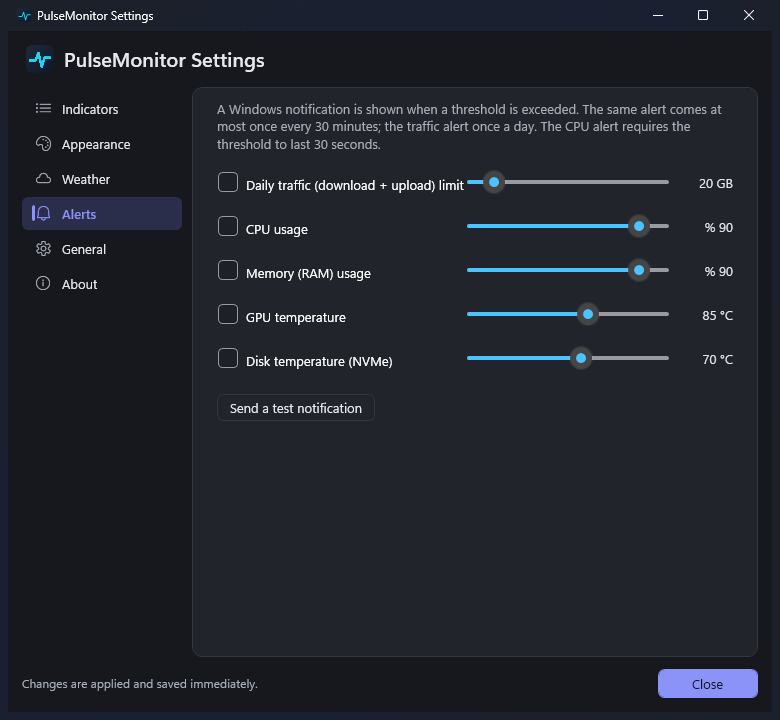
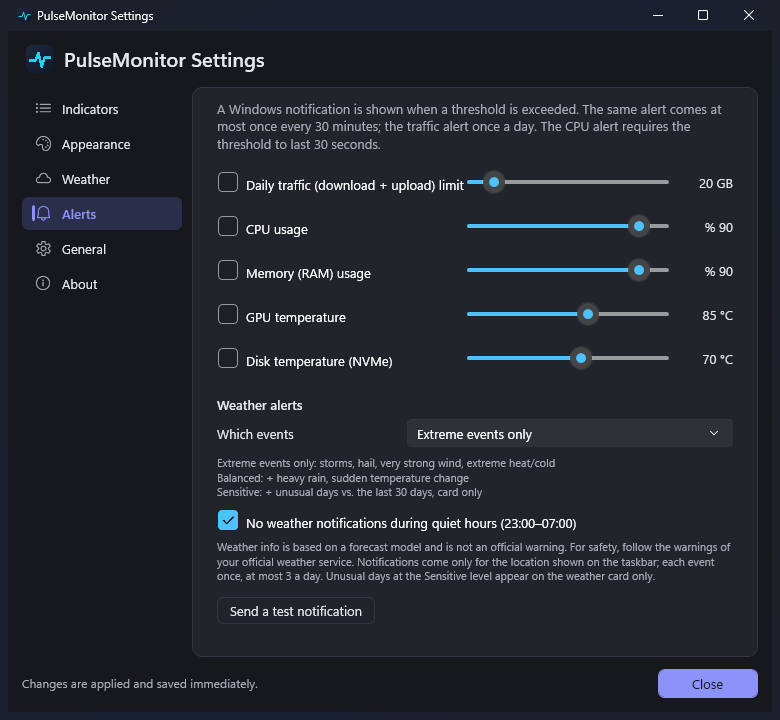
Ekran goruntuleri 0.15.0, hava uyari seviye listesi kesilmesi duzeltmesi
- docs/screenshots (en, tr): hava ayarlari, uyarilar ve gorev cubugu goruntuleri yenilendi (demo veri)
- Uyarilar sayfasi: seviye adlari kisaldi, kapsam listenin altinda ayri metin (22 dil)

Changed region(s): [[0.2769, 0.6417, 0.9231, 0.8556], [0.2769, 0.55, 0.4615, 0.6111], [0.5231, 0.5806, 0.6769, 0.6111]]

diff --git a/Views/Settings/AlertsPanel.xaml b/Views/Settings/AlertsPanel.xaml
@@ -49,6 +49,7 @@
             <TextBlock Text="{DynamicResource Alerts.WeatherLevel}" Width="190" VerticalAlignment="Center" />
             <ComboBox AutomationProperties.Name="{DynamicResource Alerts.WeatherLevel}" ItemsSource="{Binding WeatherLevel.Options}" SelectedItem="{Binding WeatherLevel.Selected}" DisplayMemberPath="Display" />
         </DockPanel>
+        <TextBlock Text="{DynamicResource Alerts.WeatherLevels}" TextWrapping="Wrap" FontSize="11" Foreground="{DynamicResource Ui.Muted}" Margin="0,2,0,6" />
         <CheckBox Content="{DynamicResource Alerts.WeatherQuiet}" IsChecked="{Binding WeatherQuietHours}" Margin="0,3" />
         <TextBlock Text="{DynamicResource Alerts.WeatherNote}" TextWrapping="Wrap" FontSize="11" Foreground="{DynamicResource Ui.Muted}" Margin="0,4,0,0" />
 
